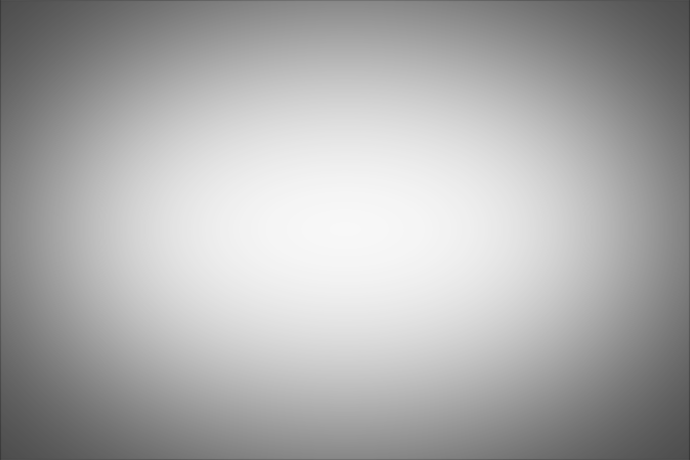
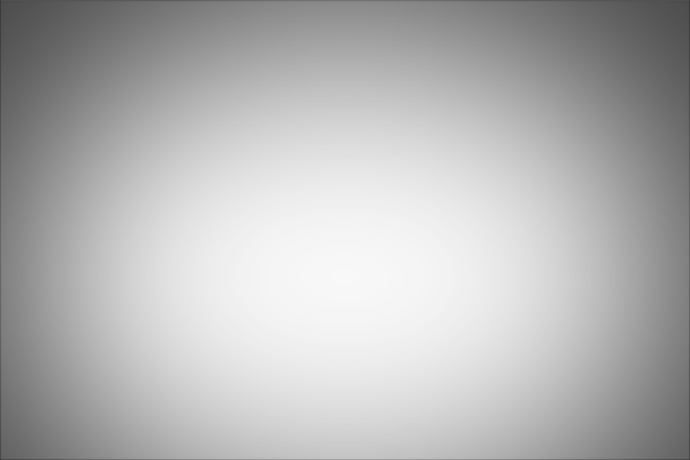
added escape to pause, modified vignette

Changed region(s): [[0.0, 0.7304, 0.9739, 1.0]]

diff --git a/lib/core.py b/lib/core.py
@@ -2,6 +2,7 @@ from data.scenes.start.start import Start
 from lib.camera import Camera
 from lib.cursor import Cursor
 from lib.particles import Particles
+from lib.text import Text
 from lib.player import Player
 import pygame
 
@@ -14,9 +15,18 @@ class Core:
         self.camera = Camera(self)
         particleimg = pygame.transform.scale_by(pygame.image.load("data/assets/objects/particle.png").convert_alpha(), 0.5)
         self.particles = Particles(self, image=particleimg)
+        self.paused = False
+        self.pausetext = Text("Paused", "helvetica", 36, [255, 255, 255])
 
     def loop(self, events):
         self.events = events
+        for event in self.events:
+            if event.type == pygame.KEYDOWN:
+                if event.key == pygame.K_ESCAPE:
+                    self.paused = not self.paused
+        if self.paused:
+            self.pausetext.loop()
+            return
         self.particles.loop()
         self.scene.loop()
         self.camera.loop()
